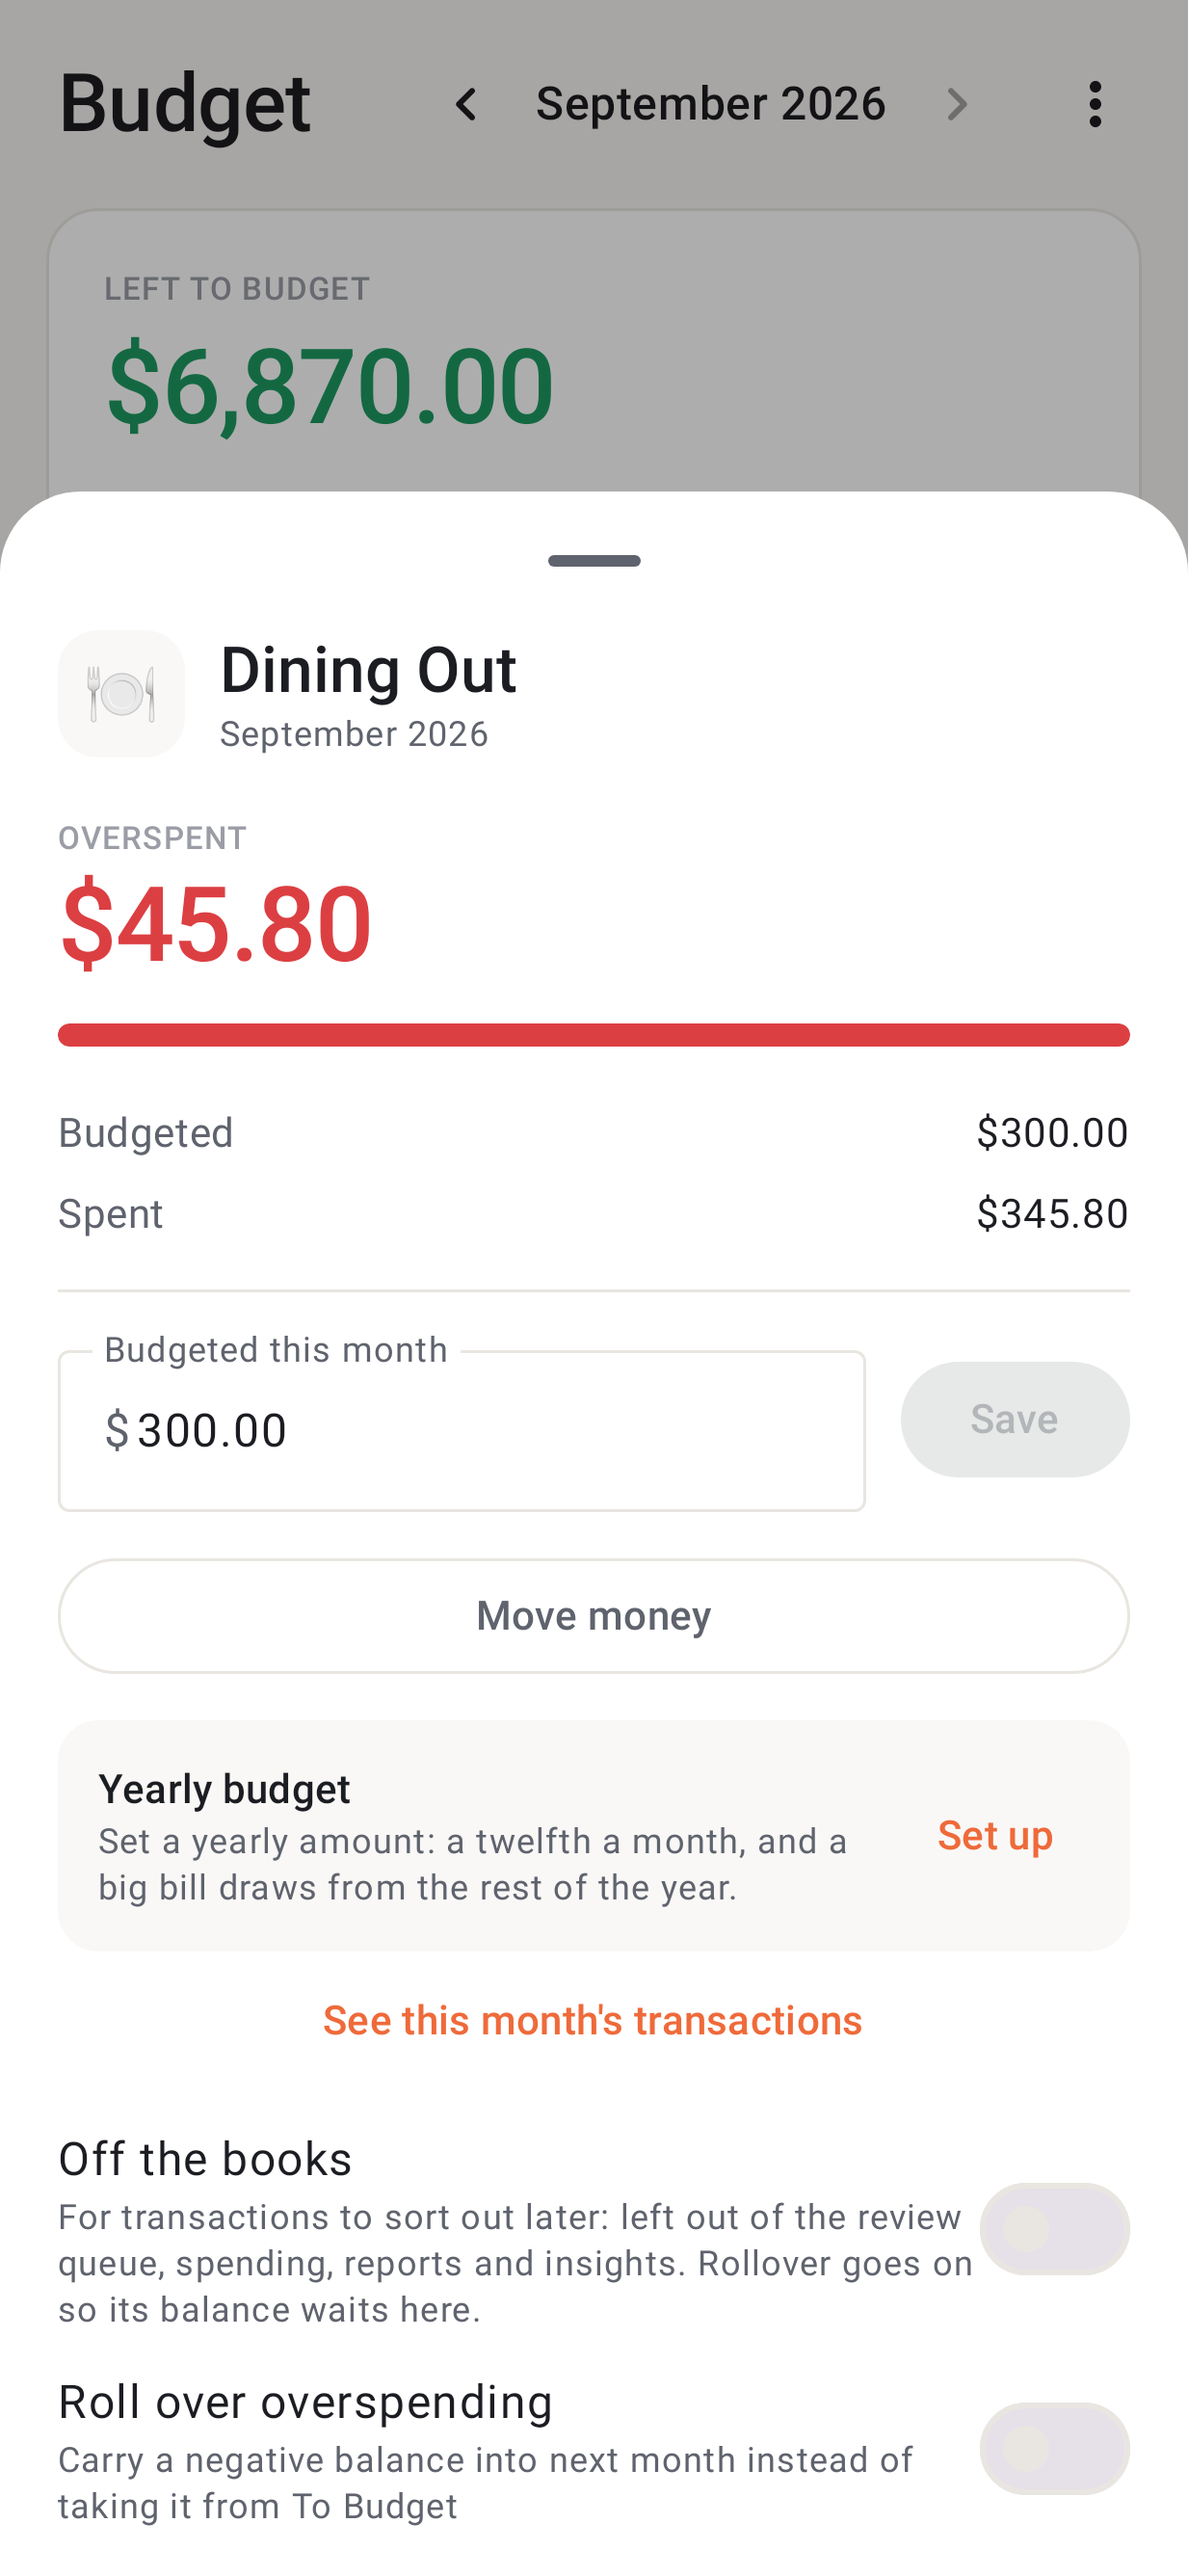
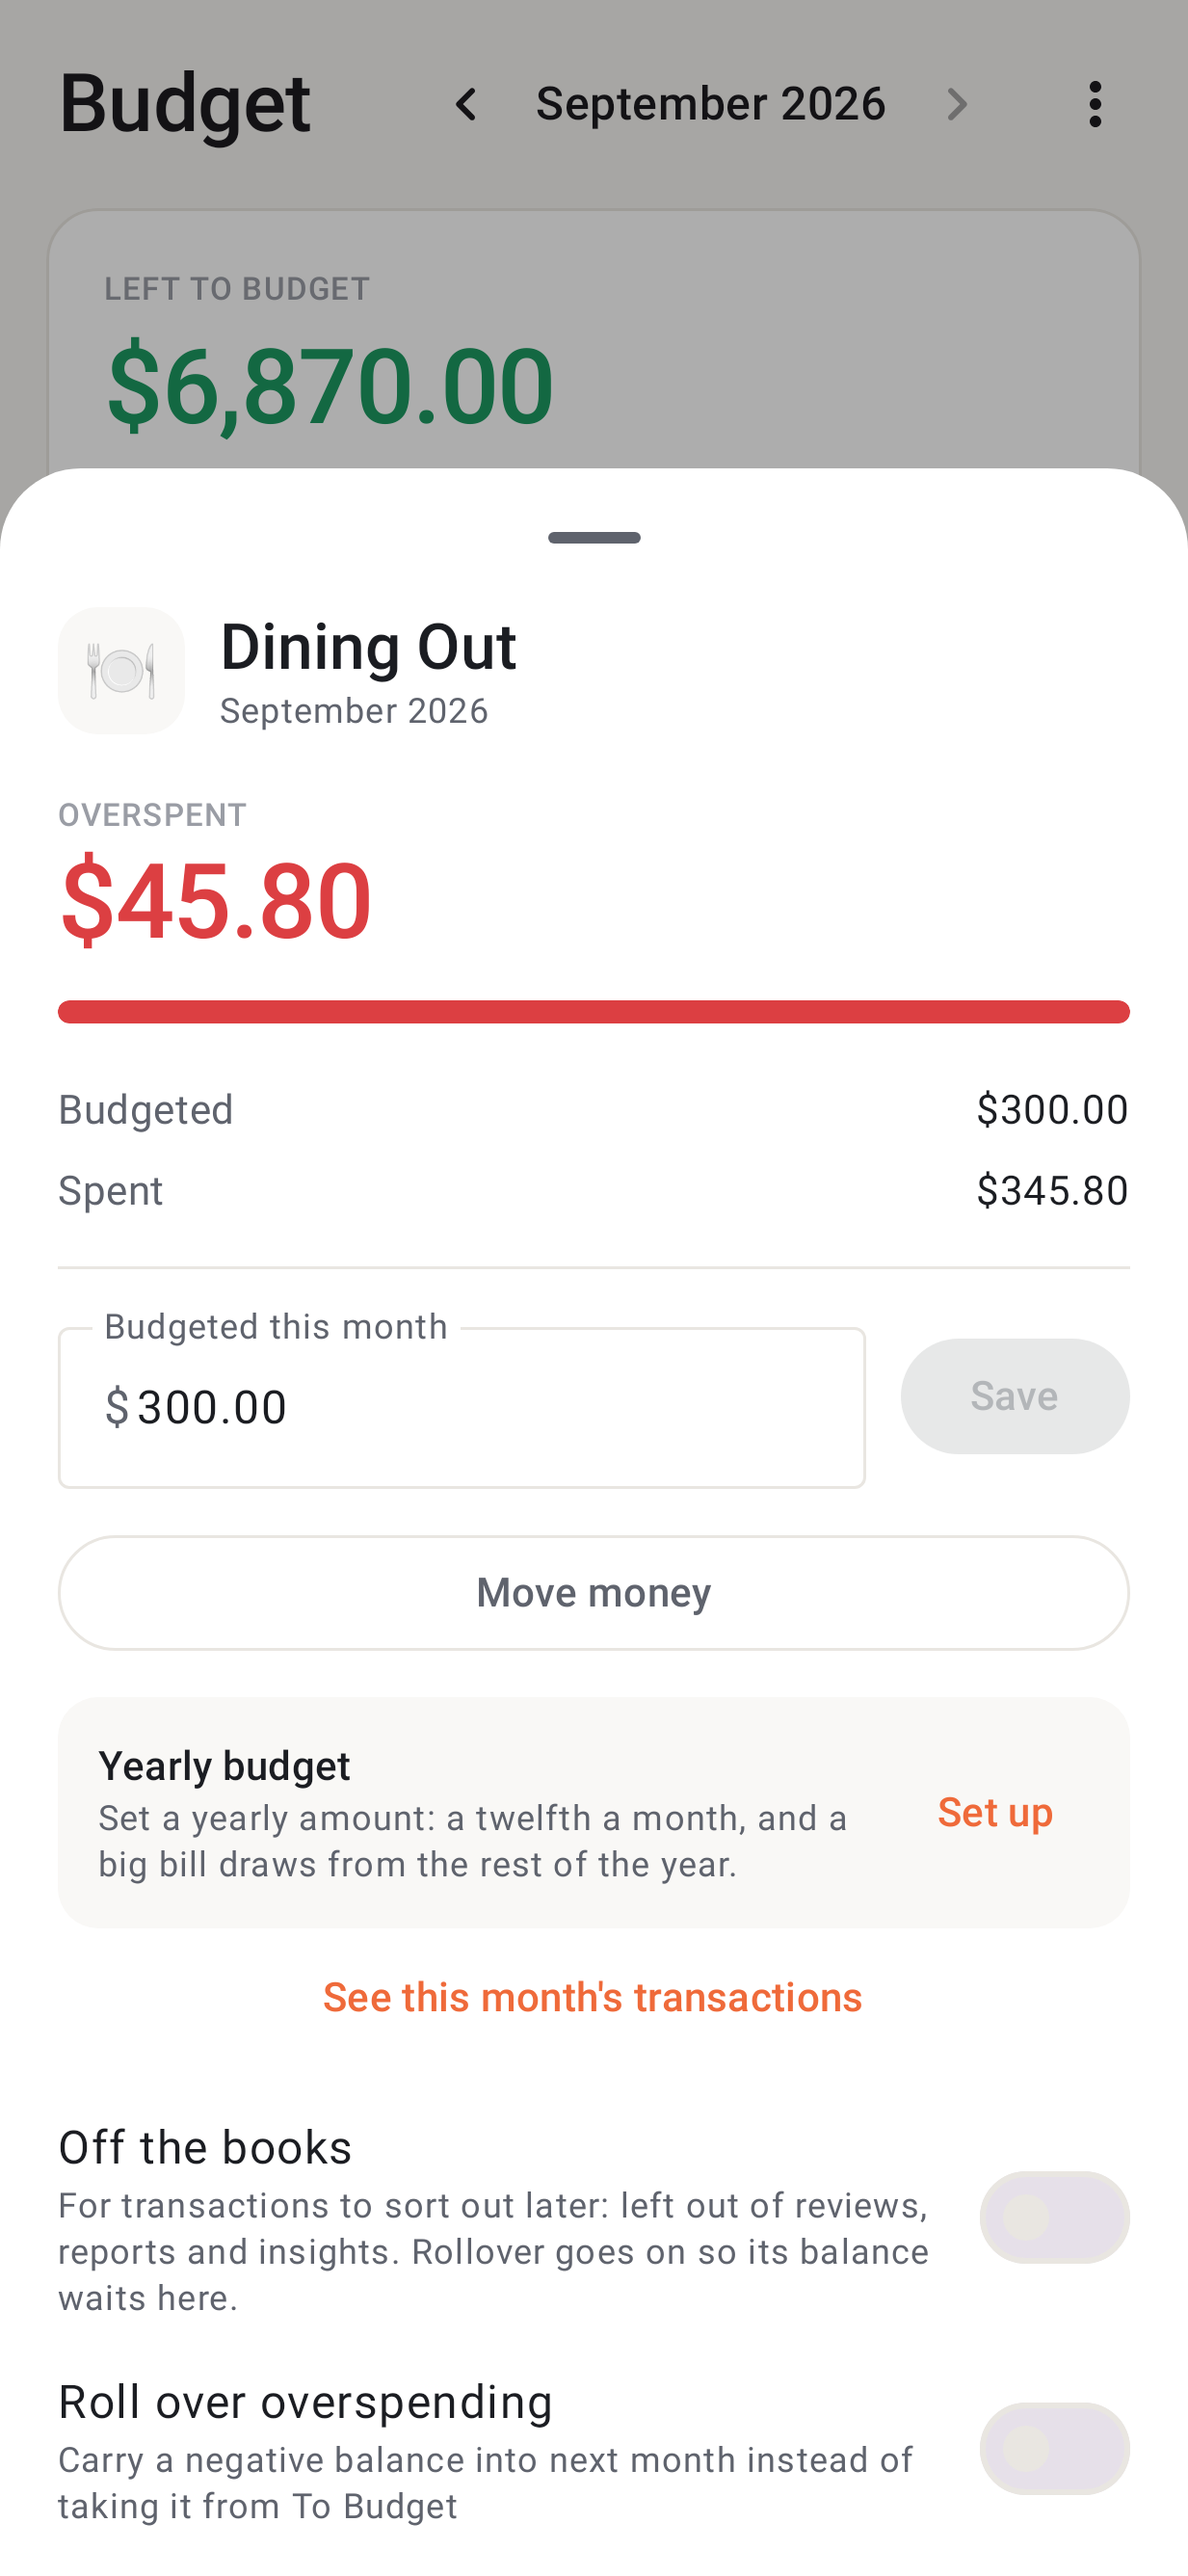
Make the category budget sheet scroll
With the history chart, yearly budget and off-the-books rows the sheet is taller
than the screen, and its bottom was clipped with rows overlapping. It scrolls now,
and the switch rows have room for their text.

Claude-Session: https://claude.ai/code/session_01RUH44BEcSXPdSoF7NajMu1

diff --git a/android/feature/budget/src/main/kotlin/app/centsible/feature/budget/CategorySheet.kt b/android/feature/budget/src/main/kotlin/app/centsible/feature/budget/CategorySheet.kt
@@ -3,6 +3,7 @@ package app.centsible.feature.budget
 import app.centsible.core.designsystem.component.toggleRow
 import androidx.compose.foundation.clickable
 import androidx.compose.foundation.background
+import androidx.compose.foundation.verticalScroll
 import androidx.compose.ui.semantics.semantics
 import androidx.compose.ui.semantics.contentDescription
 import androidx.compose.foundation.layout.Arrangement
@@ -78,7 +79,14 @@ internal fun CategorySheet(
         sheetState = rememberModalBottomSheetState(skipPartiallyExpanded = true),
         containerColor = CentsibleTheme.colors.card,
     ) {
-        Column(Modifier.fillMaxWidth().padding(horizontal = 20.dp).navigationBarsPadding().padding(bottom = 16.dp)) {
+        // Scrolls: with the history, yearly budget and notes it's taller than the screen.
+        Column(
+            Modifier.fillMaxWidth()
+                .verticalScroll(androidx.compose.foundation.rememberScrollState())
+                .padding(horizontal = 20.dp)
+                .navigationBarsPadding()
+                .padding(bottom = 16.dp),
+        ) {
             when (mode) {
                 SheetMode.Details -> {
                     CategoryDetails(category, state, onAssign, onRollover, onMoveMoney = { mode = SheetMode.Move }, onSeeTransactions = onSeeTransactions, onAutomations = onAutomations, onAnnual = onAnnual, onOffBooks = onOffBooks)
@@ -166,11 +174,11 @@ private fun CategoryDetails(
         val isIncome = state.data.valueOrNull?.incomeGroups?.any { g -> g.categories.any { it.id == category.id } } == true
         if (!isIncome) {
             val off = category.id in state.offBooks
-            Row(Modifier.fillMaxWidth().padding(top = 12.dp).toggleRow(off, !state.saving, onChange = onOffBooks), verticalAlignment = Alignment.CenterVertically) {
-                Column(Modifier.weight(1f)) {
+            Row(Modifier.fillMaxWidth().padding(top = 16.dp).toggleRow(off, !state.saving, onChange = onOffBooks), verticalAlignment = Alignment.CenterVertically) {
+                Column(Modifier.weight(1f).padding(end = 16.dp)) {
                     Text("Off the books", style = MaterialTheme.typography.bodyLarge)
                     Text(
-                        "For transactions to sort out later: left out of the review queue, spending, reports and insights. Rollover goes on so its balance waits here.",
+                        "For transactions to sort out later: left out of reviews, reports and insights. Rollover goes on so its balance waits here.",
                         style = MaterialTheme.typography.bodySmall,
                         color = colors.textSecondary,
                     )
@@ -179,8 +187,8 @@ private fun CategoryDetails(
             }
         }
         if (state.canToggleRollover) {
-            Row(Modifier.fillMaxWidth().padding(top = 12.dp).toggleRow(category.carryover, !state.saving, onChange = onRollover), verticalAlignment = Alignment.CenterVertically) {
-                Column(Modifier.weight(1f)) {
+            Row(Modifier.fillMaxWidth().padding(top = 16.dp).toggleRow(category.carryover, !state.saving, onChange = onRollover), verticalAlignment = Alignment.CenterVertically) {
+                Column(Modifier.weight(1f).padding(end = 16.dp)) {
                     Text("Roll over overspending", style = MaterialTheme.typography.bodyLarge)
                     Text("Carry a negative balance into next month instead of taking it from To Budget", style = MaterialTheme.typography.bodySmall, color = colors.textSecondary)
                 }

diff --git a/android/feature/budget/src/test/kotlin/app/centsible/feature/budget/CategorySheetBottomTest.kt b/android/feature/budget/src/test/kotlin/app/centsible/feature/budget/CategorySheetBottomTest.kt
@@ -1,0 +1,49 @@
+package app.centsible.feature.budget
+
+import androidx.compose.ui.test.junit4.createComposeRule
+import app.centsible.core.designsystem.component.Loadable
+import app.centsible.core.designsystem.theme.CentsibleTheme
+import app.centsible.core.model.CategoryHistory
+import app.centsible.core.model.CategoryId
+import app.centsible.core.model.Money
+import app.centsible.core.model.YearMonth
+import app.centsible.core.testing.SampleHousehold
+import com.github.takahirom.roborazzi.captureScreenRoboImage
+import org.junit.Rule
+import org.junit.Test
+import org.junit.runner.RunWith
+import org.robolectric.RobolectricTestRunner
+import org.robolectric.annotation.Config
+import org.robolectric.annotation.GraphicsMode
+
+/**
+ * The category sheet with everything on, on a viewport tall enough to show all of it: the
+ * sheet scrolls on a real phone, and this is what the bottom of it looks like.
+ */
+@RunWith(RobolectricTestRunner::class)
+@GraphicsMode(GraphicsMode.Mode.NATIVE)
+@Config(sdk = [35], qualifiers = "w411dp-h1500dp-xxhdpi")
+class CategorySheetBottomTest {
+    @get:Rule val compose = createComposeRule()
+
+    @Test fun category_sheet_full() {
+        val c = CategoryId("c-dining")
+        val spent = listOf(28_000L, 31_500, 26_000, 34_800, 29_900, 41_200, 30_400, 27_700, 33_100, 36_900, 32_200, 34_580)
+        val history = CategoryHistory(
+            c, SampleHousehold.month,
+            spent.mapIndexed { i, s -> CategoryHistory.Month(YearMonth.of(2026, 9).plus(i - 11), Money(s), Money(30_000)) },
+            Money(34_067), Money(33_250), Money(31_800), 11, Money(41_200), Money(26_000),
+        )
+        val state = BudgetUiState(
+            month = SampleHousehold.month,
+            availableMonths = listOf(SampleHousehold.month),
+            data = Loadable.Ready(SampleHousehold.budgetMonth),
+            canEdit = true, canMoveMoney = true, canToggleRollover = true, canApplyGoals = true, canEditNotes = true,
+            noteLoaded = true, note = "",
+            selectedCategory = c, history = history,
+        )
+        compose.setContent { CentsibleTheme(darkTheme = false) { BudgetScreen(state, {}, {}, {}, {}, { _, _ -> }, { _, _, _ -> }, { _, _ -> }, {}) } }
+        compose.waitForIdle()
+        captureScreenRoboImage("screenshots/category_sheet_full.png")
+    }
+}
